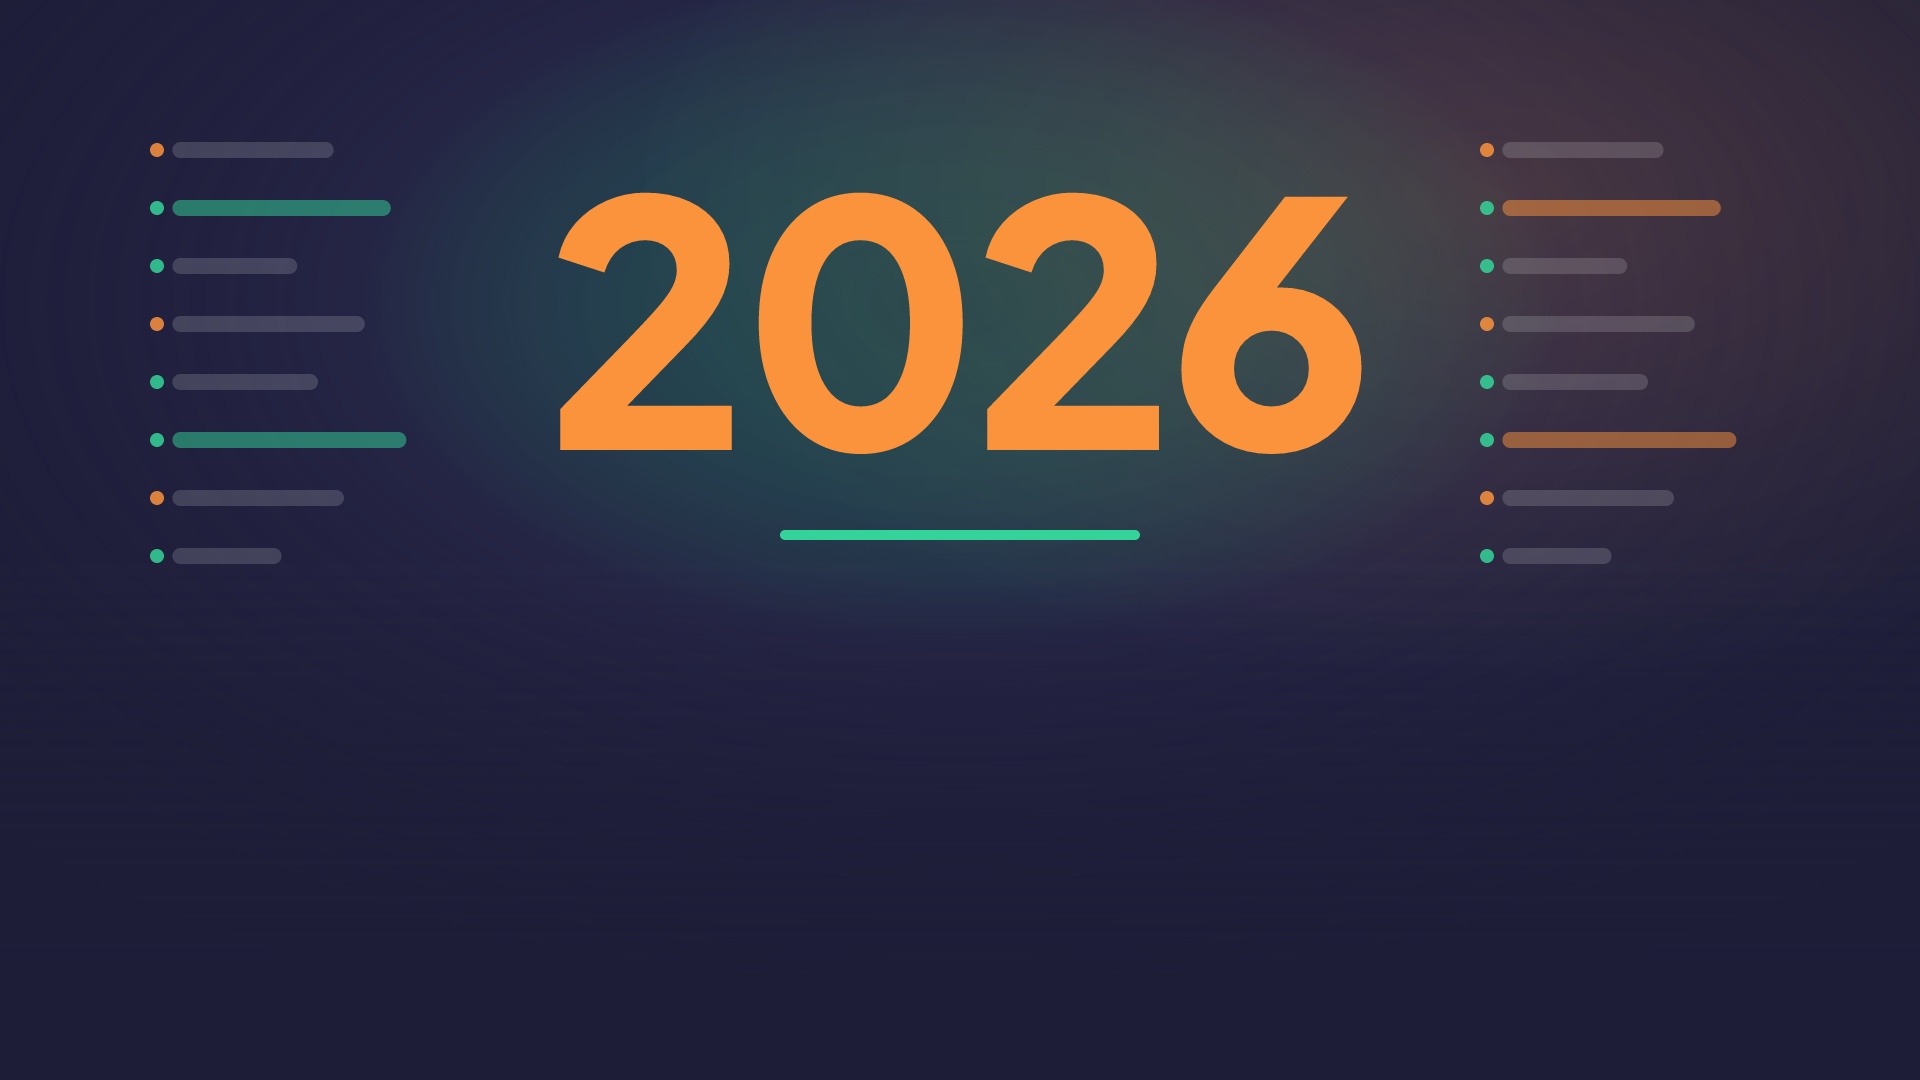
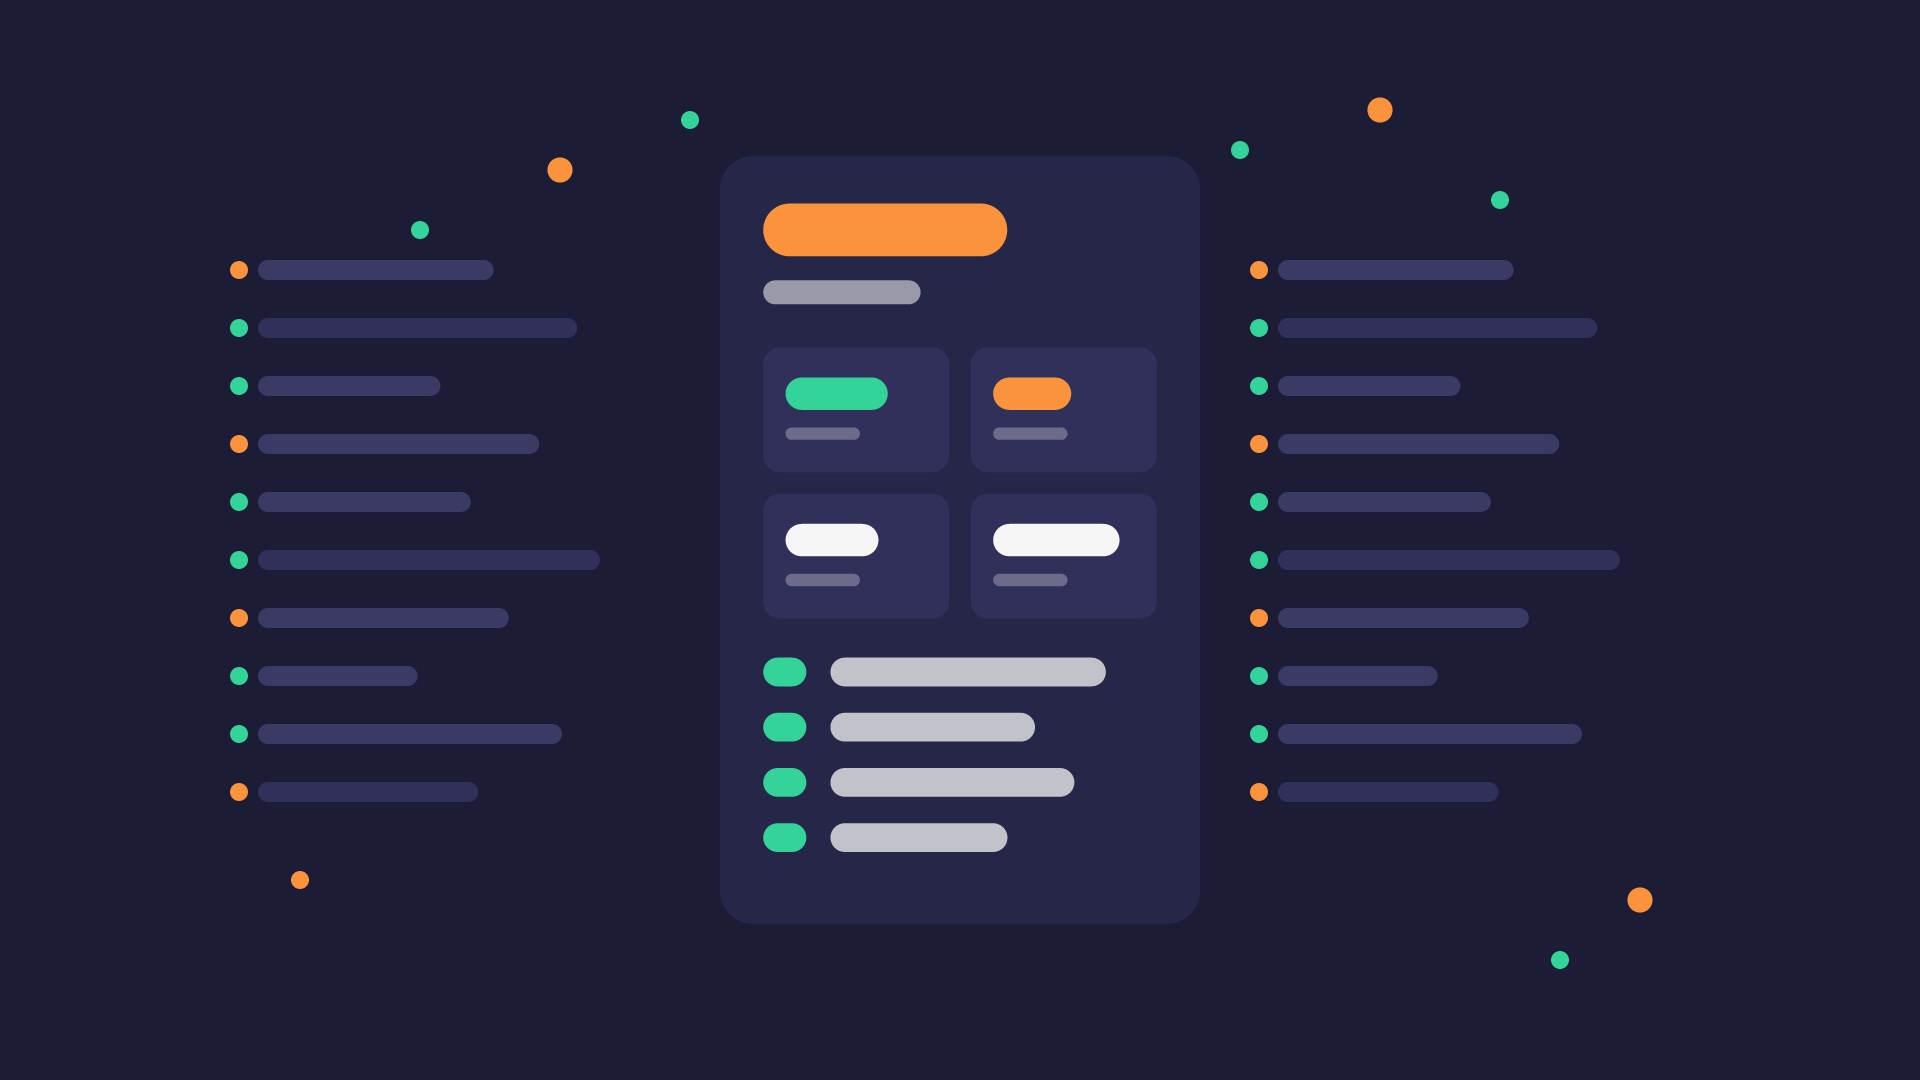
Event media: no text or gradients, per Apple's In-App Event guidance

diff --git a/scripts/render-recap-event-art.js b/scripts/render-recap-event-art.js
@@ -2,8 +2,8 @@
 // scripts/render-recap-event-art.js
 //
 // The App Store In-App Event media for "Your 2026 in Live Music"
-// (Dec 2 – Jan 1), drawn on the same renderer and in the same palette as
-// the recap card (netlify/functions/lib/yearRecapCard.js):
+// (Dec 2 – Jan 1), in the recap card's palette
+// (netlify/functions/lib/yearRecapCard.js), rasterized by the same renderer:
 //
 //   event-card-1920x1080.jpg      the event card (16:9)
 //   event-details-1080x1920.jpg   the event details page (9:16)
@@ -11,10 +11,15 @@
 // Written to docs/app-store/year-in-review-2026/. JPEG, so there's no
 // alpha channel for App Store Connect to reject.
 //
-// Type only: "2026" and abstract setlist rows, no band names or artwork.
-// The App Store lays the event's badge, name and short description over
-// the lower part of the media, so everything here sits in the top part and
-// the bottom fades to plain navy.
+// Apple's In-App Event guidance, which this follows:
+//   - avoid text and logos where possible: there's none here. The event
+//     name and description come from the event's own metadata.
+//   - don't add borders or gradients: the App Store applies its own crop
+//     and gradient. Flat shapes on a flat navy ground only.
+//   - keep the card and the details page visually continuous: both are the
+//     same illustration, a recap card (a year bar, four stat tiles, top
+//     songs) among setlist rows, with the main shapes centered so the
+//     automatic crop doesn't cut them.
 //
 //   node scripts/render-recap-event-art.js
 
@@ -23,81 +28,80 @@ const os = require('os');
 const path = require('path');
 const { execFileSync } = require('child_process');
 const { render } = require('../netlify/functions/lib/posterImage');
-const { svgText } = require('../netlify/functions/lib/heardRecord');
 
-const C = { navy: '#1c1c36', navyLight: '#2a2a4e', mint: '#34D399', orange: '#FB923C', text: '#f5f5f5' };
+const C = { navy: '#1c1c36', panel: '#262648', tile: '#30305a', mint: '#34D399', orange: '#FB923C', text: '#f5f5f5', faint: '#3a3a64' };
 const OUT = path.join(__dirname, '..', 'docs', 'app-store', 'year-in-review-2026');
 
-function defs(id) {
-  return `<defs>
-    <radialGradient id="${id}-glow" cx="50%" cy="28%" r="70%">
-      <stop offset="0%" stop-color="${C.mint}" stop-opacity="0.22"/>
-      <stop offset="45%" stop-color="${C.navyLight}" stop-opacity="0.55"/>
-      <stop offset="100%" stop-color="${C.navy}" stop-opacity="0"/>
-    </radialGradient>
-    <radialGradient id="${id}-warm" cx="78%" cy="18%" r="45%">
-      <stop offset="0%" stop-color="${C.orange}" stop-opacity="0.16"/>
-      <stop offset="100%" stop-color="${C.orange}" stop-opacity="0"/>
-    </radialGradient>
-    <linearGradient id="${id}-fade" x1="0" y1="0" x2="0" y2="1">
-      <stop offset="0" stop-color="${C.navy}" stop-opacity="0"/>
-      <stop offset="1" stop-color="${C.navy}" stop-opacity="1"/>
-    </linearGradient>
-  </defs>`;
-}
+const rect = (x, y, w, h, r, fill, extra = '') => `<rect x="${x}" y="${y}" width="${w}" height="${h}" rx="${r}" fill="${fill}"${extra}/>`;
+const dot = (x, y, r, fill) => `<circle cx="${x}" cy="${y}" r="${r}" fill="${fill}"/>`;
 
-// A column of setlist-like rows: a dot, then a bar of varying length.
-function setlistRows(x, y, rows, { width, gap, bar, dot, accent }) {
-  const lengths = [0.62, 0.84, 0.48, 0.74, 0.56, 0.9, 0.66, 0.42, 0.8, 0.58];
+// A column of setlist rows: a dot, then a bar of varying length.
+function setlistRows(x, y, rows, { width, gap, bar }) {
+  const lengths = [0.62, 0.84, 0.48, 0.74, 0.56, 0.9, 0.66, 0.42, 0.8, 0.58, 0.7, 0.5];
   let out = '';
   for (let i = 0; i < rows; i++) {
     const yy = y + i * gap;
-    const len = width * lengths[i % lengths.length];
-    const color = i % 4 === 1 ? accent : C.text;
-    out += `<circle cx="${x + dot}" cy="${yy}" r="${dot}" fill="${i % 3 === 0 ? C.orange : C.mint}" fill-opacity="0.85"/>`;
-    out += `<rect x="${x + dot * 3.2}" y="${yy - bar / 2}" width="${len}" height="${bar}" rx="${bar / 2}" fill="${color}" fill-opacity="${color === C.text ? 0.16 : 0.5}"/>`;
+    out += dot(x + bar * 0.45, yy, bar * 0.45, i % 3 === 0 ? C.orange : C.mint);
+    out += rect(x + bar * 1.4, yy - bar / 2, width * lengths[i % lengths.length], bar, bar / 2, i % 4 === 1 ? C.tile : C.faint);
   }
   return out;
 }
 
-function year(x, y, size) {
-  return `<text x="${x}" y="${y}" font-family="${svgText.FONT}" font-size="${size}" font-weight="800" fill="${C.orange}" text-anchor="middle" letter-spacing="${-size * 0.02}">2026</text>`;
+// The recap card itself, drawn as shapes: the year as an orange bar, a
+// subtitle bar, a 2x2 grid of stat tiles (shows mint, bands orange, venues
+// and songs white), and four "top songs" rows with mint counts.
+function recapCard(x, y, w) {
+  const h = w * 1.6;
+  const pad = w * 0.09;
+  const inner = w - pad * 2;
+  let out = rect(x, y, w, h, w * 0.07, C.panel);
+  out += rect(x + pad, y + pad * 1.1, inner * 0.62, w * 0.11, w * 0.055, C.orange);
+  out += rect(x + pad, y + pad * 1.1 + w * 0.16, inner * 0.4, w * 0.05, w * 0.025, C.text, ' fill-opacity="0.55"');
+  const tileW = (inner - pad * 0.5) / 2;
+  const tileH = w * 0.26;
+  const tilesY = y + pad * 1.1 + w * 0.3;
+  [[C.mint, 0.55], [C.orange, 0.42], [C.text, 0.5], [C.text, 0.68]].forEach(([fill, len], i) => {
+    const tx = x + pad + (i % 2) * (tileW + pad * 0.5);
+    const ty = tilesY + Math.floor(i / 2) * (tileH + pad * 0.5);
+    out += rect(tx, ty, tileW, tileH, w * 0.035, C.tile);
+    out += rect(tx + tileW * 0.12, ty + tileH * 0.24, tileW * len, tileH * 0.26, tileH * 0.13, fill);
+    out += rect(tx + tileW * 0.12, ty + tileH * 0.64, tileW * 0.4, tileH * 0.1, tileH * 0.05, C.text, ' fill-opacity="0.3"');
+  });
+  const rowsY = tilesY + tileH * 2 + pad * 1.4;
+  [0.7, 0.52, 0.62, 0.45].forEach((len, i) => {
+    const ry = rowsY + i * w * 0.115;
+    out += rect(x + pad, ry, w * 0.09, w * 0.06, w * 0.03, C.mint);
+    out += rect(x + pad + w * 0.14, ry, inner * len, w * 0.06, w * 0.03, C.text, ' fill-opacity="0.75"');
+  });
+  return out;
+}
+
+// Scattered confetti dots, a nod to the last show of the year.
+function confetti(points, r) {
+  return points.map(([x, y, c], i) => dot(x, y, r * (i % 3 === 0 ? 1.4 : 1), c === 'o' ? C.orange : C.mint)).join('');
 }
 
 function eventCard() {
   const W = 1920; const H = 1080;
-  return `<svg xmlns="http://www.w3.org/2000/svg" width="${W}" height="${H}" viewBox="0 0 ${W} ${H}">${defs('c')}
-    <rect width="${W}" height="${H}" fill="${C.navy}"/>
-    <rect width="${W}" height="${H}" fill="url(#c-glow)"/>
-    <rect width="${W}" height="${H}" fill="url(#c-warm)"/>
-    ${setlistRows(150, 150, 8, { width: 260, gap: 58, bar: 16, dot: 7, accent: C.mint })}
-    ${setlistRows(1480, 150, 8, { width: 260, gap: 58, bar: 16, dot: 7, accent: C.orange })}
-    ${year(W / 2, 450, 340)}
-    <rect x="${W / 2 - 180}" y="530" width="360" height="10" rx="5" fill="${C.mint}"/>
-    <rect y="${H * 0.52}" width="${W}" height="${H * 0.48}" fill="url(#c-fade)"/>
+  const cardW = 480;
+  return `<svg xmlns="http://www.w3.org/2000/svg" width="${W}" height="${H}" viewBox="0 0 ${W} ${H}">
+    ${rect(0, 0, W, H, 0, C.navy)}
+    ${setlistRows(230, 270, 10, { width: 380, gap: 58, bar: 20 })}
+    ${setlistRows(1250, 270, 10, { width: 380, gap: 58, bar: 20 })}
+    ${recapCard((W - cardW) / 2, (H - cardW * 1.6) / 2, cardW)}
+    ${confetti([[560, 170, 'o'], [690, 120, 'm'], [1240, 150, 'm'], [1380, 110, 'o'], [1500, 200, 'm'], [420, 230, 'm'], [1640, 900, 'o'], [300, 880, 'o'], [1560, 960, 'm']], 9)}
   </svg>`;
 }
 
 function eventDetails() {
   const W = 1080; const H = 1920;
-  // Four stat tiles under the year, as on the recap page, with bars in
-  // place of numbers.
-  const tiles = [[C.mint, 0.5], [C.orange, 0.38], [C.text, 0.44], [C.text, 0.62]].map(([color, len], i) => {
-    const x = 120 + (i % 2) * 432;
-    const y = 760 + Math.floor(i / 2) * 200;
-    return `<rect x="${x}" y="${y}" width="408" height="176" rx="28" fill="#ffffff" fill-opacity="0.05" stroke="#ffffff" stroke-opacity="0.1" stroke-width="2"/>`
-      + `<rect x="${x + 36}" y="${y + 50}" width="${408 * len}" height="40" rx="20" fill="${color}" fill-opacity="${color === C.text ? 0.75 : 0.95}"/>`
-      + `<rect x="${x + 36}" y="${y + 116}" width="150" height="16" rx="8" fill="${C.text}" fill-opacity="0.25"/>`;
-  }).join('');
-  return `<svg xmlns="http://www.w3.org/2000/svg" width="${W}" height="${H}" viewBox="0 0 ${W} ${H}">${defs('d')}
-    <rect width="${W}" height="${H}" fill="${C.navy}"/>
-    <rect width="${W}" height="${H}" fill="url(#d-glow)"/>
-    <rect width="${W}" height="${H}" fill="url(#d-warm)"/>
-    ${year(W / 2, 560, 330)}
-    <rect x="${W / 2 - 150}" y="612" width="300" height="10" rx="5" fill="${C.mint}"/>
-    ${tiles}
-    ${setlistRows(150, 1230, 5, { width: 700, gap: 64, bar: 18, dot: 8, accent: C.mint })}
-    <rect y="${H * 0.6}" width="${W}" height="${H * 0.4}" fill="url(#d-fade)"/>
+  const cardW = 600;
+  return `<svg xmlns="http://www.w3.org/2000/svg" width="${W}" height="${H}" viewBox="0 0 ${W} ${H}">
+    ${rect(0, 0, W, H, 0, C.navy)}
+    ${setlistRows(150, 200, 5, { width: 640, gap: 56, bar: 20 })}
+    ${recapCard((W - cardW) / 2, (H - cardW * 1.6) / 2, cardW)}
+    ${setlistRows(150, 1500, 5, { width: 640, gap: 56, bar: 20 })}
+    ${confetti([[120, 120, 'o'], [930, 160, 'm'], [990, 520, 'o'], [90, 760, 'm'], [1000, 1180, 'm'], [80, 1380, 'o'], [940, 1820, 'o'], [200, 1840, 'm']], 10)}
   </svg>`;
 }
 

diff --git a/docs/app-store/year-in-review-2026/README.md b/docs/app-store/year-in-review-2026/README.md
@@ -14,9 +14,18 @@ Regenerate with `node scripts/render-recap-event-art.js`.
 | `event-card-1920x1080.jpg` | Event card (16:9) |
 | `event-details-1080x1920.jpg` | Event details page (9:16) |
 
-They're type only, in the recap card's palette. The lower part is plain
-navy because the App Store lays the badge, name and short description
-over it. Both are JPEG, so they have no alpha channel.
+Both show the same flat illustration: a recap card (a year bar, four stat
+tiles, top songs) among setlist rows, in the recap card's palette. They
+follow Apple's In-App Event media guidance:
+
+- **No text or logos.** The event name and descriptions come from the
+  metadata below.
+- **No borders or gradients.** The App Store adds its own crop and
+  gradient.
+- **Main shapes centered,** so the automatic crop doesn't cut them.
+
+Both are JPEG, so they have no alpha channel. Use App Store Connect's
+preview to check both placements before you submit.
 
 ## Metadata
 

diff --git a/CHANGELOG.md b/CHANGELOG.md
@@ -26,7 +26,9 @@ the repo.**
 - **Event media** (`scripts/render-recap-event-art.js` →
   `docs/app-store/year-in-review-2026/`): the 1920×1080 event card and the
   1080×1920 details-page image, drawn with the recap card's renderer and
-  palette, as JPEG with no alpha channel. The folder's README has the
+  palette, as JPEG with no alpha channel. They follow Apple's media
+  guidance: no text or logos, no borders or gradients (the App Store adds
+  its own), main shapes centered for the automatic crop. The folder's README has the
   event metadata (name, descriptions, badge, dates, deep link) and the
   email steps.
 - Tests: `tests/email/yearRecapEmail.test.js` now covers a second Send
